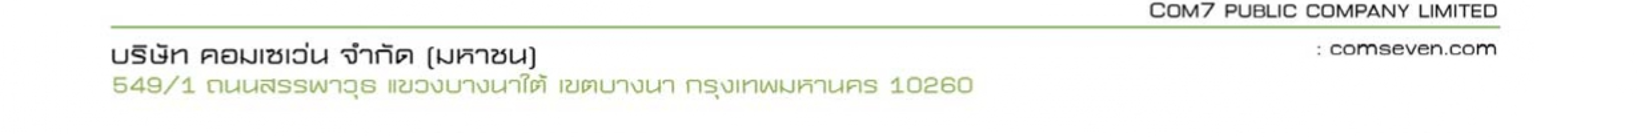
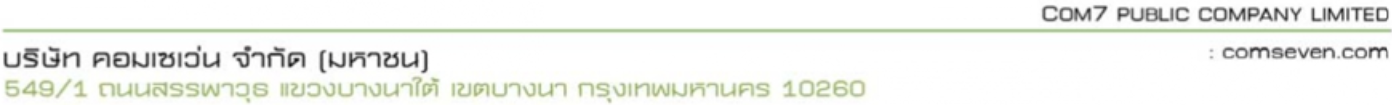
update line

Changed region(s): [[0.0, 0.2571, 1.0, 0.7143], [0.0, 0.7143, 0.6487, 0.9714], [0.0618, 0.0, 1.0, 0.2286]]

diff --git a/app/page.tsx b/app/page.tsx
@@ -33,21 +33,26 @@ const M_LEFT = 25.4;
 type Letterhead = {
   id: string; label: string; company: string; office: string; head: string; foot: string;
   headW: number; footW: number; headTop: number; mTop: number; mBottom: number;
+  dx?: number; // เลื่อนรูปหัว/ท้ายตามแนวนอน (มม.) จากกึ่งกลางกระดาษ บวก = ไปทางขวา (ใช้คู่กับ headW/footW = CONTENT_W เพื่อให้ขอบรูปตรงกับขอบข้อความ)
   footBottom?: number; // ระยะรูปท้ายจากขอบล่างกระดาษ (มม.) ยิ่งมากรูปยิ่งขยับขึ้น (ถ้าไม่ระบุใช้ FOOT_BOTTOM_MM) ควรเพิ่ม mBottom ตามไปด้วย
 };
+const CONTENT_X_MM = (M_LEFT - M_RIGHT) / 2; // ศูนย์กลางพื้นที่เนื้อหาอยู่ห่างจากกึ่งกลางกระดาษไปทางขวา (0.55 มม.)
 const LETTERHEADS: Letterhead[] = [
   { id: "com7", label: "COM7", company: "บริษัท คอมเซเว่น จำกัด (มหาชน)",
     office: "สำนักงาน ตั้งอยู่เลขที่ 549/1 ถนนสรรพาวุธ แขวงบางนาใต้ เขตบางนา กรุงเทพมหานคร",
     head: "/img/com/com7head.png", foot: "/img/com/com7foot.png",
-    headW: 210, footW: 210, headTop: 0, mTop: M_TOP, mBottom: M_BOTTOM },
+    headW: PAGE_W - M_LEFT - M_RIGHT, footW: PAGE_W - M_LEFT - M_RIGHT, dx: CONTENT_X_MM, // รูปกว้างเท่าพื้นที่เนื้อหา ขอบซ้าย-ขวาตรงกับตัวหนังสือ สัดส่วนรูปคงเดิม
+    headTop: 8, mTop: 40, mBottom: 36, footBottom: 6 }, // ระยะจากขอบกระดาษเท่ากับ SEE
   { id: "ufun", label: "UFUN", company: "บริษัท ยูฟัน แคปปิตอล จำกัด",
     office: "สำนักงาน ตั้งอยู่เลขที่ 549/1 ถนนสรรพาวุธ แขวงบางนาใต้ เขตบางนา กรุงเทพมหานคร", // TODO: แก้เป็นที่อยู่สำนักงานของ ยูฟัน แคปปิตอล
     head: "/img/ufun/ufunhead.png", foot: "/img/ufun/ufunfoot.png",
-    headW: 210, footW: 210, headTop: 8, mTop: 40, mBottom: 30 },
+    headW: PAGE_W - M_LEFT - M_RIGHT, footW: PAGE_W - M_LEFT - M_RIGHT, dx: CONTENT_X_MM, // รูปกว้างเท่าพื้นที่เนื้อหา ขอบซ้าย-ขวาตรงกับตัวหนังสือ
+    headTop: 8, mTop: 40, mBottom: 36, footBottom: 6 }, // ระยะจากขอบกระดาษเท่ากับ SEE
   { id: "see", label: "SEE", company: "บริษัท ซี โนว์ ฮาว จำกัด",
     office: "สำนักงาน ตั้งอยู่เลขที่ 549/1 ถนนสรรพาวุธ แขวงบางนาใต้ เขตบางนา กรุงเทพมหานคร", // TODO: แก้เป็นที่อยู่สำนักงานของ ซี โนว์ ฮาว
     head: "/img/see/seehead.png", foot: "/img/see/seefoot.png",
-    headW: 210, footW: 210, headTop: 8, mTop: 40, mBottom: 36, footBottom: 6 }, // หัวขยับลง 8 มม. / ท้ายขยับขึ้น 6 มม. (ปรับได้)
+    headW: PAGE_W - M_LEFT - M_RIGHT, footW: PAGE_W - M_LEFT - M_RIGHT, dx: CONTENT_X_MM, // รูปกว้างเท่าพื้นที่เนื้อหา (160.3 มม.) ขอบซ้าย-ขวาตรงกับตัวหนังสือ สัดส่วนรูปคงเดิม
+    headTop: 8, mTop: 40, mBottom: 36, footBottom: 6 }, // หัวขยับลง 8 มม. / ท้ายขยับขึ้น 6 มม. (ปรับได้)
 ];
 const FOOT_BOTTOM_MM = 0; // ระยะรูปท้ายจากขอบล่างกระดาษ
 const CONTENT_W = +(PAGE_W - M_LEFT - M_RIGHT).toFixed(2); // 160.3 mm
@@ -592,7 +597,7 @@ const DOC_CSS = `
   animation: pageIn .5s cubic-bezier(.2,.8,.2,1) both;
 }
 .a4-page:last-child { margin-bottom: 0; break-after: auto; page-break-after: auto; }
-.a4-head, .a4-foot { position: absolute; left: 50%; transform: translateX(-50%); height: auto; display: block;
+.a4-head, .a4-foot { position: absolute; left: calc(50% + var(--lh-dx, 0mm)); transform: translateX(-50%); height: auto; display: block;
   max-width: none; pointer-events: none; user-select: none; -webkit-user-drag: none; }
 .a4-head { top: var(--head-top); width: var(--head-w); }
 .a4-head.in { animation: lhHeadIn .55s cubic-bezier(.2,.8,.2,1) both; }
@@ -1222,6 +1227,7 @@ export default function Home() {
     "--head-top": `${letterhead.headTop}mm`,
     "--foot-w": `${letterhead.footW}mm`,
     "--foot-bottom": `${letterhead.footBottom ?? FOOT_BOTTOM_MM}mm`,
+    "--lh-dx": `${letterhead.dx ?? 0}mm`,
   } as React.CSSProperties;
 
   const allFields = SECTIONS.flatMap((s) => s.fields);
@@ -1446,9 +1452,9 @@ export default function Home() {
                     {prevLh && (
                       <>
                         <img className="a4-head out" src={prevLh.head} alt="" draggable={false}
-                          style={{ top: `${prevLh.headTop}mm`, width: `${prevLh.headW}mm` }} />
+                          style={{ top: `${prevLh.headTop}mm`, width: `${prevLh.headW}mm`, left: `calc(50% + ${prevLh.dx ?? 0}mm)` }} />
                         <img className="a4-foot out" src={prevLh.foot} alt="" draggable={false}
-                          style={{ width: `${prevLh.footW}mm`, bottom: `${prevLh.footBottom ?? FOOT_BOTTOM_MM}mm` }} />
+                          style={{ width: `${prevLh.footW}mm`, bottom: `${prevLh.footBottom ?? FOOT_BOTTOM_MM}mm`, left: `calc(50% + ${prevLh.dx ?? 0}mm)` }} />
                       </>
                     )}
                     <img key={`h${swapN}`} className={`a4-head${swapN ? " in" : ""}`} src={letterhead.head} alt="" draggable={false} />
